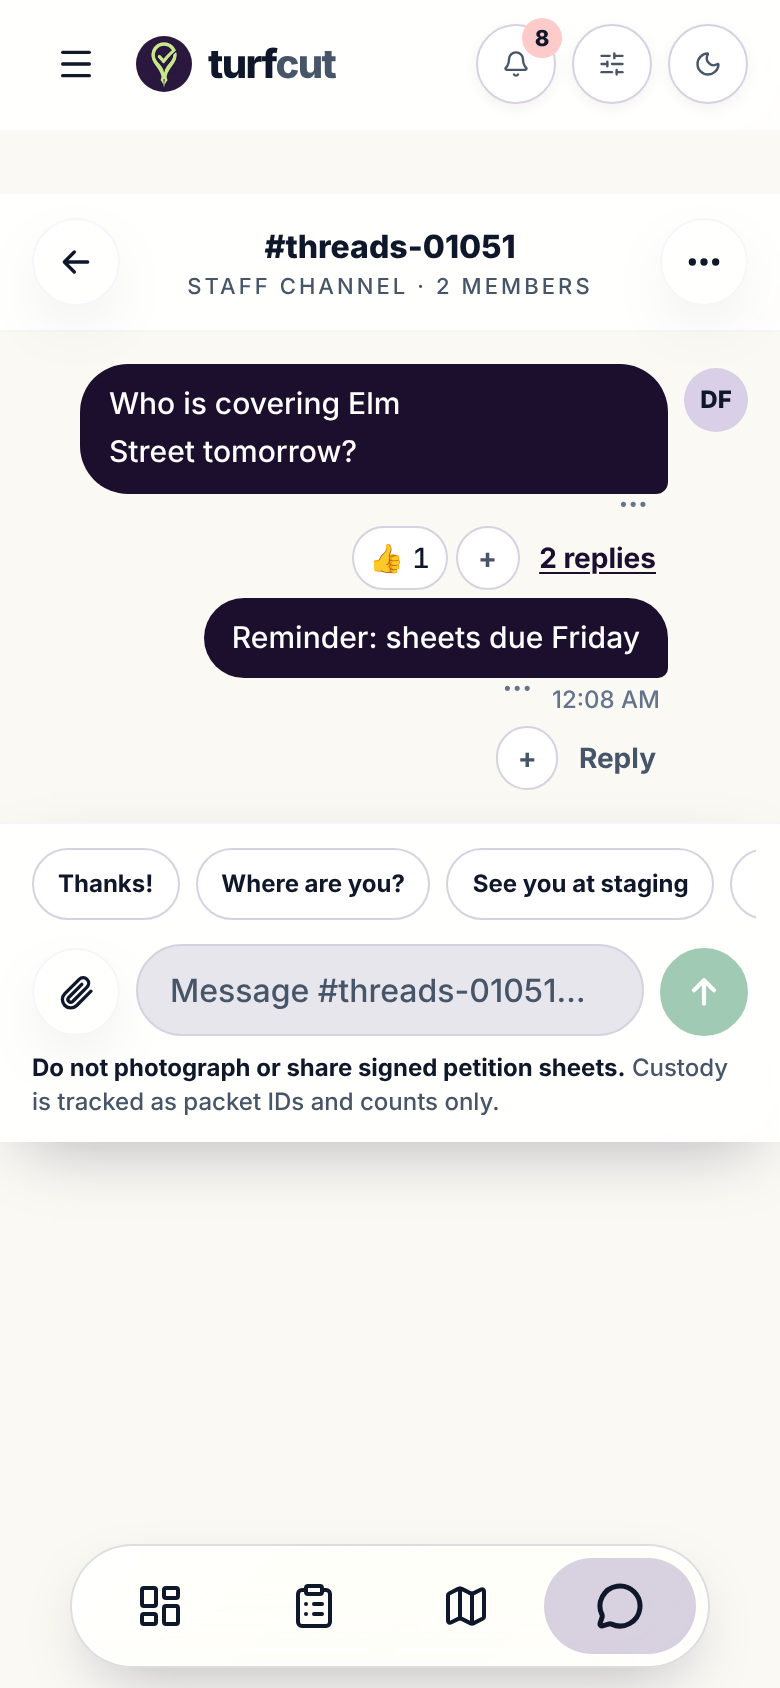
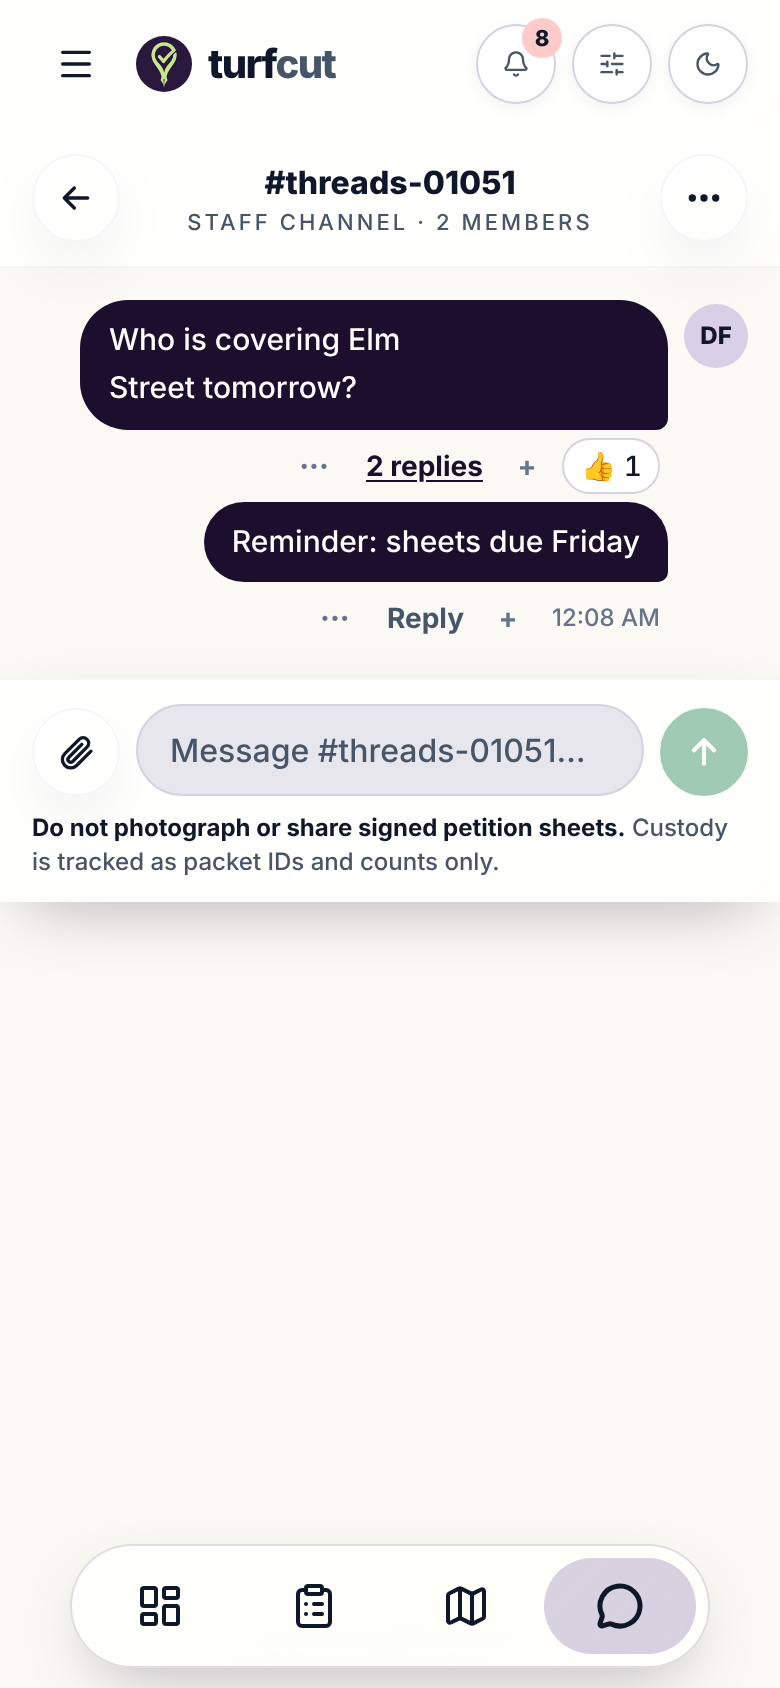
Messages: one compact row under each message, and no band under the header
Caden: the spacing looked off. The time, reactions, thread link and
options now share one line instead of three, the add-reaction button is
quiet until reached for, and a conversation's bar sits flush under the
site header.

Claude-Session: https://claude.ai/code/session_01M5jonG7B326Ty4GJKyZ5gK

Changed region(s): [[0.0308, 0.0924, 0.9538, 0.7085]]

diff --git a/src/components/chat/Thread.tsx b/src/components/chat/Thread.tsx
@@ -77,7 +77,7 @@ function Reactions({ m, children }: { m: ClientMessage; /** Sits at the end of t
   };
   if (shown.length === 0 && !m.canReact && !children) return null;
   return (
-    <div className={`mt-1 flex flex-wrap items-center gap-1 ${m.mine ? "justify-end" : ""}`}>
+    <div className={`flex flex-wrap items-center gap-1 ${m.mine ? "flex-row-reverse" : ""}`}>
       {shown.map((r) => (
         <button key={r.emoji} type="button" className="reaction" aria-pressed={r.mine} disabled={!m.canReact || pending} onClick={() => toggle(r.emoji)} aria-label={`${REACTION_NAMES[r.emoji]}, ${r.count}${r.mine ? ", including yours" : ""}`}>
           <span aria-hidden>{r.emoji}</span>
@@ -136,7 +136,7 @@ function MessageActions({ m, conversationId }: { m: ClientMessage; conversationI
         <button
           ref={toggle}
           type="button"
-          className="-mt-1 rounded px-1.5 text-sm font-bold leading-none text-subtle hover:text-fg"
+          className="msg-more"
           onClick={() => { setMsg(null); setMode("menu"); }}
           aria-label="Message options"
           aria-haspopup="true"
@@ -264,24 +264,24 @@ export function MessageList({
                   </a>
                 )}
               </div>
-              <div className={`mt-0.5 flex items-start gap-1 px-1 ${m.mine ? "flex-row-reverse" : ""}`}>
+              {/* One row under the message: the time, the marks, the way into its thread, then the message's options. A deleted message keeps its thread, not its marks. */}
+              <div className={`msg-meta ${m.mine ? "flex-row-reverse" : ""}`}>
                 {(lastOfRun || m.edited) && (
                   <span className="text-[0.75rem] text-subtle">
                     <LocalTime iso={m.createdAt} mode="time" />
                     {m.edited && " · edited"}
                   </span>
                 )}
+                <Reactions m={m.deleted ? { ...m, reactions: [], canReact: false } : m}>
+                  {!threadId && (m.replies > 0 || m.canReply) && (
+                    <Link transitionTypes={["nav-forward"]} href={`/messages/${conversationId}/thread/${m.id}`} className={`thread-link ${m.replies > 0 ? "thread-link-has" : ""}`}>
+                      {m.replies > 0 ? `${m.replies} ${m.replies === 1 ? "reply" : "replies"}` : "Reply"}
+                      {m.newReplies > 0 && <span className="unread-badge ml-2 no-underline">{m.newReplies} new</span>}
+                    </Link>
+                  )}
+                </Reactions>
                 <MessageActions m={m} conversationId={conversationId} />
               </div>
-              {/* One row under the message: the marks, then the way into its thread. A deleted message keeps its thread, not its marks. */}
-              <Reactions m={m.deleted ? { ...m, reactions: [], canReact: false } : m}>
-                {!threadId && (m.replies > 0 || m.canReply) && (
-                  <Link transitionTypes={["nav-forward"]} href={`/messages/${conversationId}/thread/${m.id}`} className={`thread-link ${m.replies > 0 ? "thread-link-has" : ""}`}>
-                    {m.replies > 0 ? `${m.replies} ${m.replies === 1 ? "reply" : "replies"}` : "Reply"}
-                    {m.newReplies > 0 && <span className="unread-badge ml-2 no-underline">{m.newReplies} new</span>}
-                  </Link>
-                )}
-              </Reactions>
             </div>
           </li>
         );

diff --git a/src/app/globals.css b/src/app/globals.css
@@ -2741,9 +2741,22 @@ body {
   .bubble-mention {
     box-shadow: 0 0 0 2px var(--select);
   }
+  /* Everything under a message sits on one line: time, marks, the thread link, options. It wraps only when it must. */
+  .msg-meta {
+    @apply mt-1 flex flex-wrap items-center gap-x-2 gap-y-1 px-1;
+  }
+  /* The message's options: three dots, level with the rest of the row, with a comfortable target. */
+  .msg-more {
+    @apply inline-flex h-7 min-w-7 items-center justify-center rounded-full px-1 text-sm leading-none font-bold transition;
+    color: var(--subtle);
+  }
+  .msg-more:hover {
+    color: var(--fg);
+    background: var(--surface-2);
+  }
   /* Reactions under a message: a small pill per mark with its count; yours is ringed. */
   .reaction {
-    @apply inline-flex min-h-8 items-center gap-1 rounded-full border px-2 text-sm leading-none transition;
+    @apply inline-flex h-7 items-center gap-1 rounded-full border px-2 text-sm leading-none transition;
     border-color: var(--border);
     background: var(--surface);
     color: var(--fg);
@@ -2753,9 +2766,16 @@ body {
     background: color-mix(in srgb, var(--select) 16%, var(--surface));
     font-weight: var(--font-weight-semibold);
   }
+  /* Adding a mark is the quietest thing in the row: no outline until you reach for it. */
   .reaction-add {
-    @apply justify-center px-2.5 font-semibold;
-    color: var(--muted);
+    @apply w-7 justify-center px-0 font-semibold;
+    border-color: transparent;
+    background: transparent;
+    color: var(--subtle);
+  }
+  .reaction-add:hover {
+    color: var(--fg);
+    background: var(--surface-2);
   }
   .reaction-picker {
     @apply inline-flex items-center gap-0.5 rounded-full border p-0.5;
@@ -2772,7 +2792,7 @@ body {
   }
   /* The way into a message's thread: quiet until it has replies. */
   .thread-link {
-    @apply inline-flex min-h-8 items-center px-1.5 text-sm font-semibold;
+    @apply inline-flex h-7 items-center px-1 text-sm font-semibold;
     color: var(--muted);
   }
   .thread-link-has {
@@ -2854,6 +2874,13 @@ body {
     border-color: var(--glass-border);
     -webkit-backdrop-filter: var(--glass-filter);
     backdrop-filter: var(--glass-filter);
+  }
+  /* A conversation's bar sits flush under the site header: the page's own top padding would leave an empty band above it. */
+  .page:has(> .thread-top) {
+    padding-top: 0;
+  }
+  .page > .thread-top {
+    margin-top: 0;
   }
   /* Next-shift banner atop a job conversation: a lavender note, not live. */
   .shift-banner {
